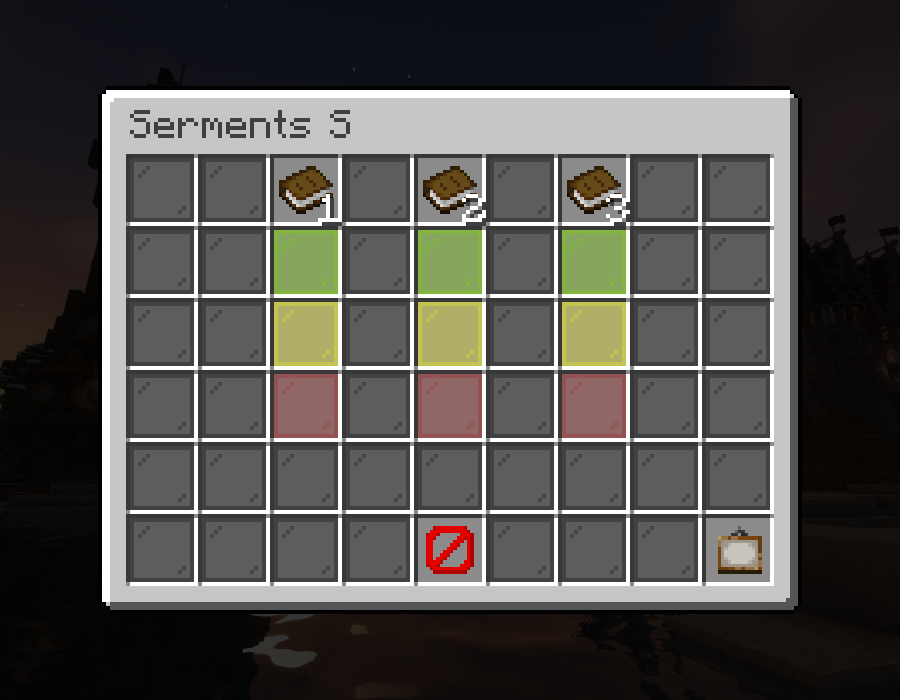
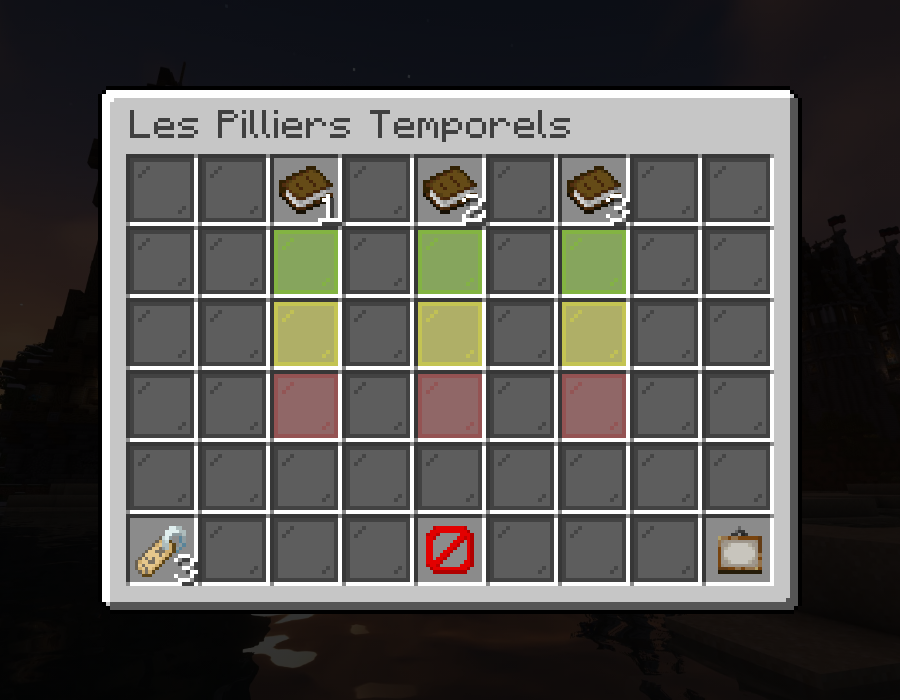
Ajoute « Renommer les Serments » : nom et description des 3 serments modifiables
Étiquette (3) en bas à gauche des Pilliers Temporels -> page avec 3 blocs
de terre cuite cyan ; chacun ouvre le panneau titre puis description du
serment. Le nom s'affiche sur le livre, son overlay et le titre de sa page.
Édition titre + description factorisée avec la tête de profil.

Claude-Session: https://claude.ai/code/session_019gCBZ2Dy19V3W7UiEquzyT

Changed region(s): [[0.1244, 0.15, 0.6533, 0.21], [0.1244, 0.72, 0.2178, 0.84]]

diff --git a/index.html b/index.html
@@ -142,9 +142,9 @@ function sermentSlots() {
   return slots;
 }
 // Une colonne de la page « Les Pilliers Temporels » : le livre du serment en haut, puis 3 vitres colorées en dessous.
-function sermentColumn(col, page, name) {
+function sermentColumn(col, n) {
   const panes = ['lime_stained_glass', 'yellow_stained_glass', 'red_stained_glass'];
-  const slots = { [`0,${col}`]: { item: 'book', tooltip: [`§a${name}`, ...LORE], open: page } };
+  const slots = { [`0,${col}`]: { item: 'book', tooltip: sermentBookTooltip(n), open: `serment${n}` } };
   panes.forEach((pane, i) => { slots[`${i + 1},${col}`] = { pane }; });
   return slots;
 }
@@ -199,33 +199,93 @@ function endDateSlot() {
   };
 }
 
-// Titre et description de la tête « Ton profil », modifiables via deux panneaux successifs.
-const PROFILE_KEY = 'profil';
-const profile = (() => { try { return JSON.parse(localStorage.getItem(PROFILE_KEY)) || {}; } catch { return {}; } })();
-function saveProfile() {
-  try { localStorage.setItem(PROFILE_KEY, JSON.stringify(profile)); } catch {}
-}
-function profileTooltip() {
-  const desc = (profile.description || '').split('\n');
+// Édition « titre puis description » via deux panneaux successifs (tête de profil, serments).
+function descLines(description) {
+  const desc = (description || '').split('\n');
   while (desc.length && !desc[desc.length - 1].trim()) desc.pop();   // retire les lignes vides de la fin
-  return ['§a' + (profile.title || 'Ton profil'), ...(desc.length ? desc.map(l => '§7' + l) : ['§7Description à venir.'])];
+  return desc.map(l => '§7' + l);
 }
-function editProfile() {
+// Répartit un texte sur plusieurs lignes de panneau (coupure entre les mots).
+function wrapForSign(text, maxLines) {
+  const lines = [''];
+  for (const word of text.split(/\s+/).filter(Boolean)) {
+    const cur = lines[lines.length - 1], next = cur ? cur + ' ' + word : word;
+    if (textWidth(font, next) <= SIGN_TEXT_W || !cur) lines[lines.length - 1] = next;
+    else if (lines.length < maxLines) lines.push(word);
+    else break;
+  }
+  return lines.join('\n');
+}
+// target = { label (ex. "du profil"), titleLines, get() -> {title, description}, save(title, description) }
+function editTitleAndDescription(target) {
+  const current = target.get();
+  const n = target.titleLines || 1;
+  const fixed = ['', '', '', ''];
+  fixed[n] = '^^^^^^^^^^^^';
+  fixed[n + 1] = `Titre ${target.label}`;
   openSign({
-    title: 'Modifier le titre',
-    lines: 1, fixed: ['', '^^^^^^^^^^^^', 'Titre du profil', ''],
-    initial: profile.title || '',
+    title: `Modifier le titre ${target.label}`,
+    lines: n, fixed,
+    initial: wrapForSign(current.title || '', n),
     onDone: text => {
-      profile.title = text.trim();
-      saveProfile();
+      const title = text.split('\n').map(l => l.trim()).filter(Boolean).join(' ');
+      target.save(title, current.description || '');
       openSign({
-        title: 'Modifier la description',
+        title: `Modifier la description ${target.label}`,
         lines: 4, fixed: [],
-        initial: profile.description || '',
-        onDone: desc => { profile.description = desc; saveProfile(); },
+        initial: current.description || '',
+        onDone: desc => target.save(title, desc),
       });
     },
   });
+}
+function loadJSON(key) {
+  try { return JSON.parse(localStorage.getItem(key)) || {}; } catch { return {}; }
+}
+function saveJSON(key, value) {
+  try { localStorage.setItem(key, JSON.stringify(value)); } catch {}
+}
+
+// Tête « Ton profil ».
+const PROFILE_KEY = 'profil';
+const profile = loadJSON(PROFILE_KEY);
+function profileTooltip() {
+  const desc = descLines(profile.description);
+  return ['§a' + (profile.title || 'Ton profil'), ...(desc.length ? desc : ['§7Description à venir.'])];
+}
+function editProfile() {
+  editTitleAndDescription({
+    label: 'du profil',
+    get: () => profile,
+    save: (title, description) => { Object.assign(profile, { title, description }); saveJSON(PROFILE_KEY, profile); },
+  });
+}
+
+// Serments : nom et description modifiables (page « Renommer les Serments »).
+const SERMENTS_KEY = 'serments-noms';
+const SERMENT_DEFAULTS = { 1: 'Serment S 1 - 12K/Mois', 2: 'Serment S 2 - 75Kg Sec', 3: 'Serment S 3' };
+const sermentInfo = loadJSON(SERMENTS_KEY);
+const sermentTitle = n => (sermentInfo[n] && sermentInfo[n].title) || SERMENT_DEFAULTS[n];
+function editSerment(n) {
+  editTitleAndDescription({
+    label: 'du serment', titleLines: 2,
+    get: () => ({ title: sermentTitle(n), description: (sermentInfo[n] && sermentInfo[n].description) || '' }),
+    save: (title, description) => { sermentInfo[n] = { title, description }; saveJSON(SERMENTS_KEY, sermentInfo); },
+  });
+}
+function sermentBookTooltip(n) {
+  return () => {
+    const desc = descLines(sermentInfo[n] && sermentInfo[n].description);
+    return ['§a' + sermentTitle(n), ...(desc.length ? desc : ['§7Description à venir.']), '', '§eClique pour voir !'];
+  };
+}
+
+function renameSlot(n) {
+  return {
+    block: 'cyan_terracotta',
+    action: () => editSerment(n),
+    tooltip: () => ['§a' + sermentTitle(n), '§7Renommer ce serment', '§7et modifier sa description.', '', '§eClique pour modifier !'],
+  };
 }
 
 const PAGE_TITLES = { main: 'Profil Joueur', serments: 'Les Pilliers Temporels', duree: 'Durée des Serments' };
@@ -243,9 +303,10 @@ const PAGES = {
   serments: {
     title: PAGE_TITLES.serments,
     slots: {
-      ...sermentColumn(2, 'serment1', 'Serment S 1 - 12K/Mois'),
-      ...sermentColumn(4, 'serment2', 'Serment S 2 - 75Kg Sec'),
-      ...sermentColumn(6, 'serment3', 'Serment S 3'),
+      ...sermentColumn(2, 1),
+      ...sermentColumn(4, 2),
+      ...sermentColumn(6, 3),
+      '5,0': { item: 'name_tag', count: 3, tooltip: ['§aRenommer les Serments', ...LORE], open: 'renommer' },
       '5,8': { item: 'painting', tooltip: ['§aDurée des Serments', ...LORE], open: 'duree' },
       ...navSlots('main'),
     },
@@ -258,16 +319,25 @@ const PAGES = {
       ...navSlots('serments'),
     },
   },
+  renommer: {
+    title: 'Renommer les Serments',
+    slots: {
+      '2,2': renameSlot(1),
+      '2,4': renameSlot(2),
+      '2,6': renameSlot(3),
+      ...navSlots('serments'),
+    },
+  },
   serment1: {
-    title: 'Serment S 1 - 12K/Mois',
+    title: () => sermentTitle(1),
     slots: { ...sermentSlots(), ...navSlots('serments') },
   },
   serment2: {
-    title: 'Serment S 2 - 75Kg Sec',
+    title: () => sermentTitle(2),
     slots: { ...sermentSlots(), ...navSlots('serments') },
   },
   serment3: {
-    title: 'Serment S 3',
+    title: () => sermentTitle(3),
     slots: { ...sermentSlots(), ...navSlots('serments') },
   },
 };
@@ -295,7 +365,7 @@ const FILES = [
   'generic_54', 'ascii', 'accented', 'black_stained_glass', 'normal',
   'diamond_sword', 'painting', 'book', 'writable_book', 'clock_00', 'bone',
   'name_tag', 'barrier', 'redstone_torch', 'cookie', 'paper',
-  'arrow', 'blue_terracotta', 'black_terracotta', 'oak', 'button', 'button_highlighted', 'green_dye', 'lime_dye', 'lime_stained_glass', 'yellow_stained_glass', 'red_stained_glass',
+  'arrow', 'blue_terracotta', 'black_terracotta', 'cyan_terracotta', 'oak', 'button', 'button_highlighted', 'green_dye', 'lime_dye', 'lime_stained_glass', 'yellow_stained_glass', 'red_stained_glass',
   'crafting_table_top', 'crafting_table_front', 'crafting_table_side',
   'barrel_top', 'barrel_side',
 ];
@@ -583,7 +653,8 @@ function renderGui() {
   ctx.drawImage(T.generic_54, 0, 0, GUI_W, 125, 0, 0, GUI_W * S, 125 * S);
   ctx.drawImage(T.generic_54, 0, 215, GUI_W, 7, 0, 125 * S, GUI_W * S, 7 * S);
 
-  drawText(ctx, font, PAGES[state.page].title, 8, 6, '#404040', S);
+  const title = PAGES[state.page].title;
+  drawText(ctx, font, typeof title === 'function' ? title() : title, 8, 6, '#404040', S);
 
   for (let r = 0; r < ROWS; r++) {
     for (let c = 0; c < COLS; c++) {
@@ -917,6 +988,7 @@ async function main() {
     barrel: { top: T.barrel_top, front: T.barrel_side, side: T.barrel_side },
     blue_terracotta: { top: T.blue_terracotta, front: T.blue_terracotta, side: T.blue_terracotta },
     black_terracotta: { top: T.black_terracotta, front: T.black_terracotta, side: T.black_terracotta },
+    cyan_terracotta: { top: T.cyan_terracotta, front: T.cyan_terracotta, side: T.cyan_terracotta },
   };
   const page = location.hash.slice(1);
   state.page = PAGES[page] ? page : 'main';
